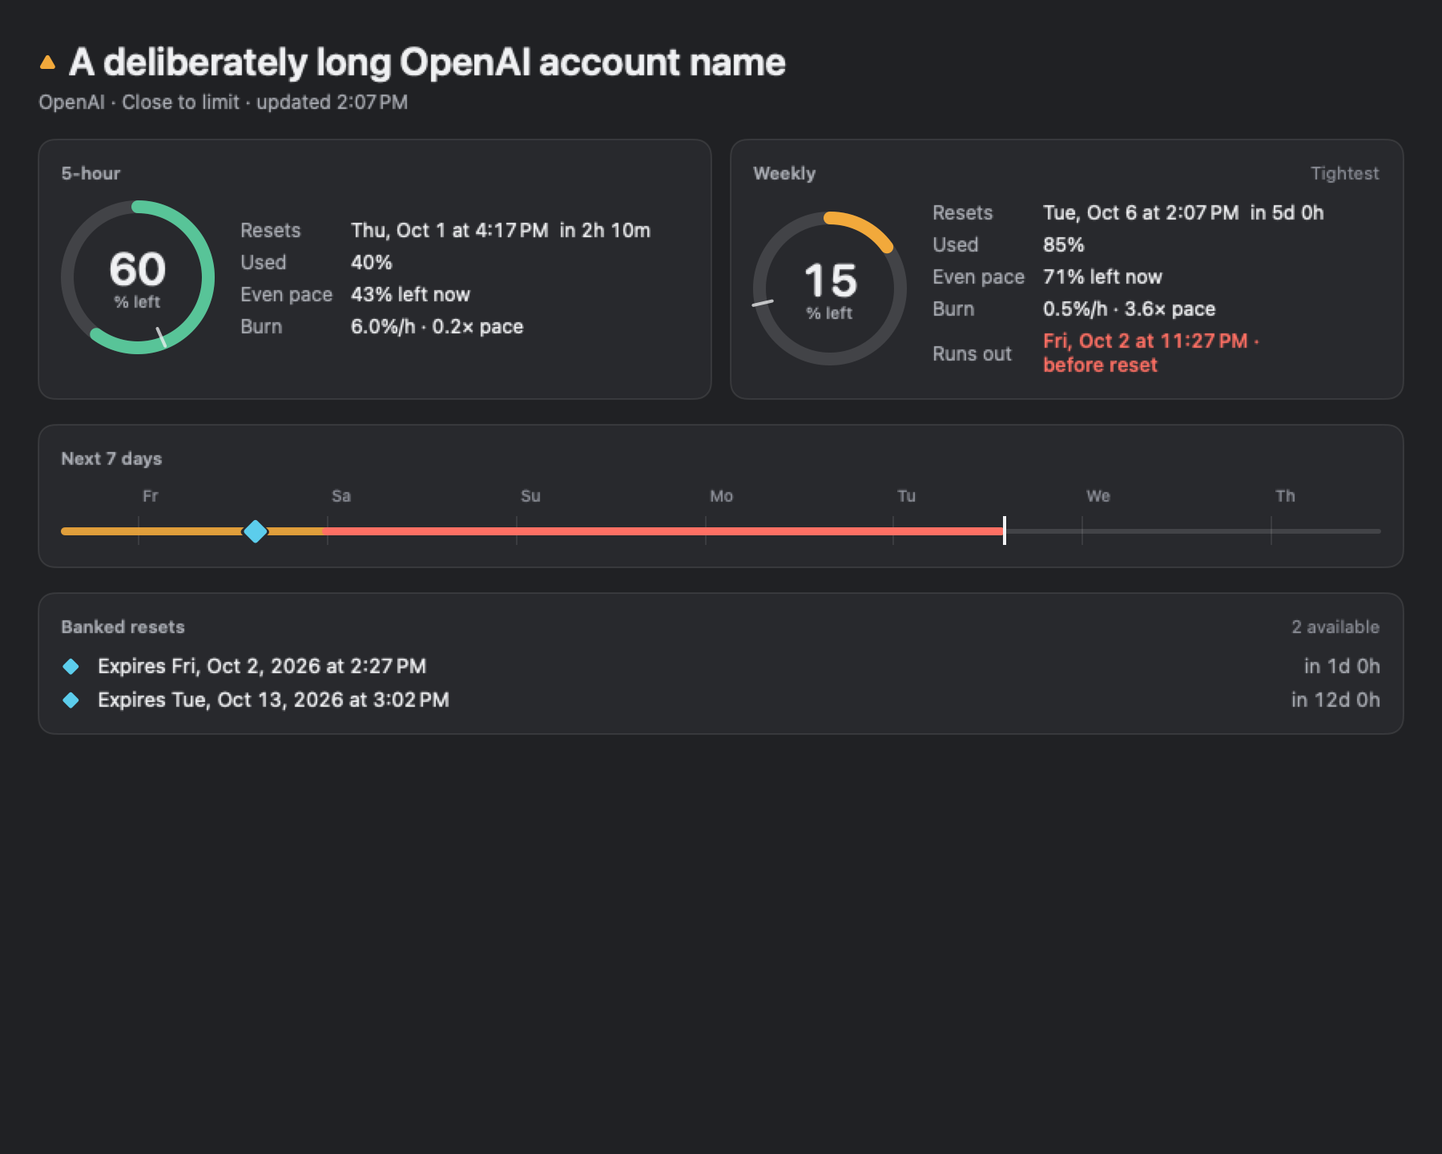
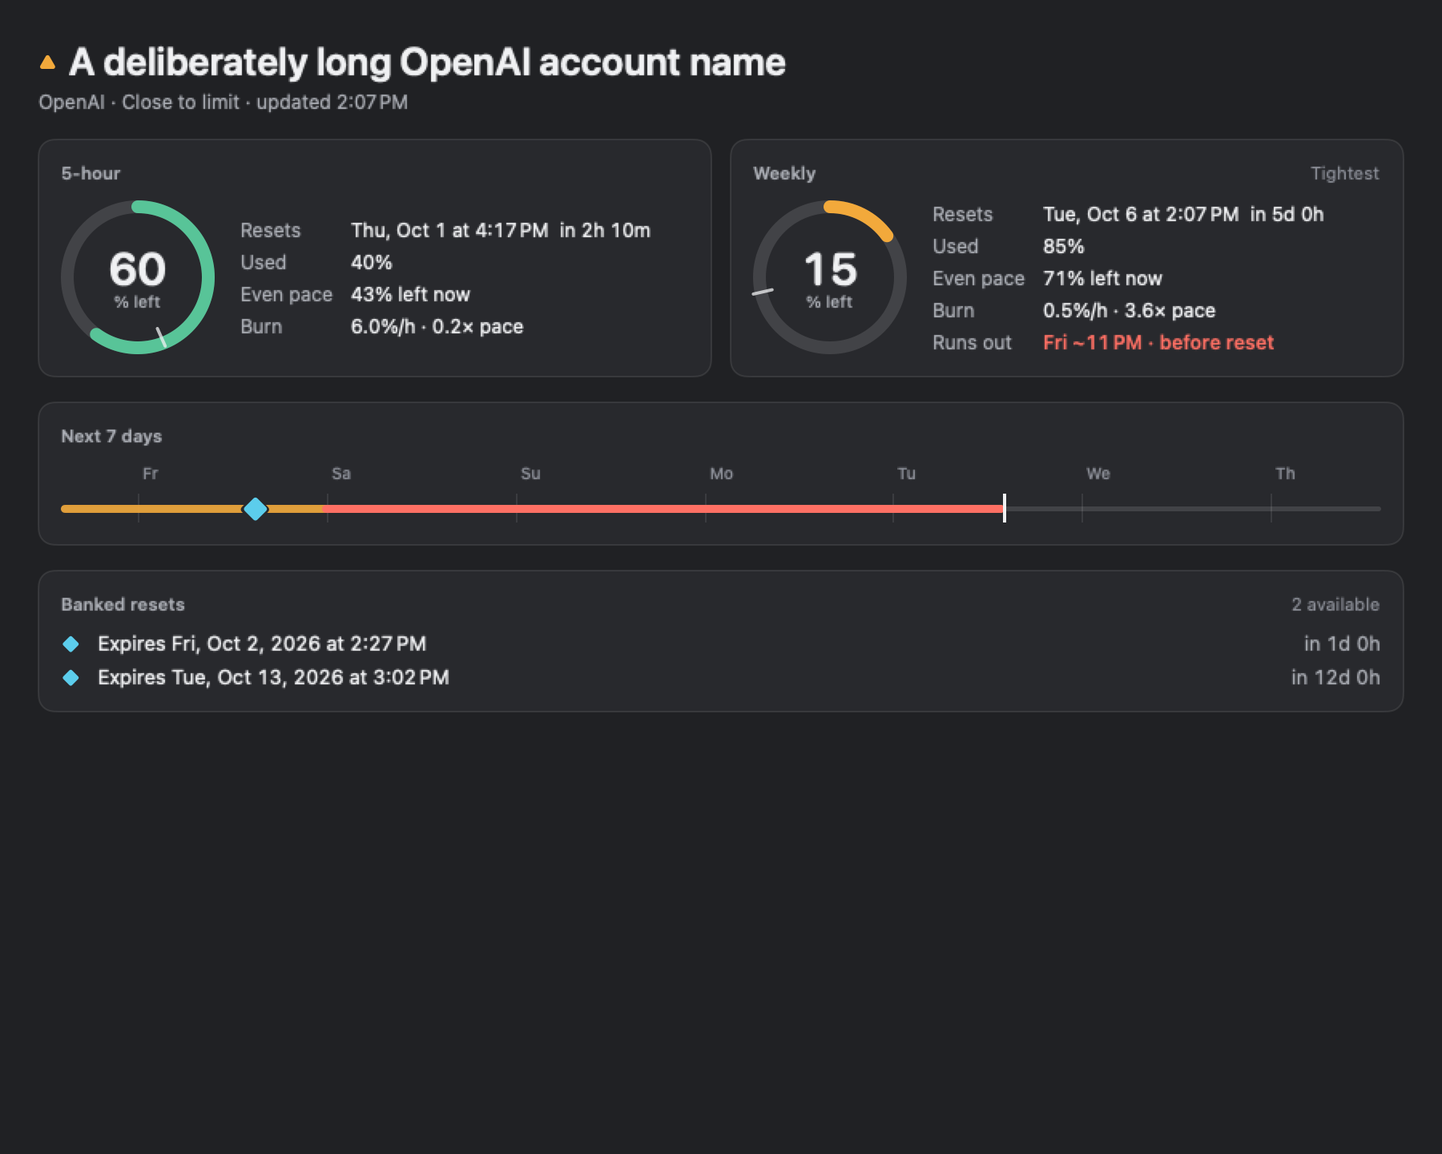
Keep pace honest on saved data and odd windows
Always show the limiting window, skip pace and run-out for saved data,
ignore the estimator's window-average fallback, stop guessing window
length from "session" or "day", give VoiceOver both windows and pace,
and count overflow accounts in widgets. Covered by AccountPaceTests.

diff --git a/Sources/ContextPanelSettingsUI/AccountDashboardViews.swift b/Sources/ContextPanelSettingsUI/AccountDashboardViews.swift
@@ -123,7 +123,8 @@ public struct AccountDashboardPanel: View {
                             Text(AccountPaceText.countdown(to: first.expiresAt, now: now))
                                 .font(.system(size: 11)).foregroundStyle(palette.secondary)
                         }
-                        Text(first.label).font(.system(size: 11)).foregroundStyle(palette.secondary).lineLimit(1)
+                        Text(first.label + (first.state == .available ? "" : " · last seen"))
+                            .font(.system(size: 11)).foregroundStyle(palette.secondary).lineLimit(1)
                         ForEach(overview.deadlines.dropFirst().prefix(2)) { deadline in
                             HStack(spacing: 6) {
                                 Text(AccountPaceText.when(deadline.expiresAt, now: now)).monospacedDigit()
@@ -202,8 +203,8 @@ public struct AccountDashboardPanel: View {
                 }
             }
             .frame(maxWidth: .infinity, alignment: .leading)
-            windowCell(account, window: account.windows.first { ($0.duration ?? 0) < 86_400 }).frame(width: Column.fiveHour)
-            windowCell(account, window: account.windows.first { ($0.duration ?? 0) >= 86_400 }).frame(width: Column.week)
+            windowCell(account, window: account.shortWindow).frame(width: Column.fiveHour)
+            windowCell(account, window: account.longWindow).frame(width: Column.week)
             paceCell(account).frame(width: Column.pace, alignment: .leading)
             DashboardWeekLane(account: account, deadlines: overview.deadlines.filter { $0.accountID == account.id },
                               now: now, palette: palette)
@@ -212,7 +213,7 @@ public struct AccountDashboardPanel: View {
         .padding(.horizontal, 14).padding(.vertical, 10)
         .contentShape(Rectangle())
         .accessibilityElement(children: .ignore)
-        .accessibilityLabel(account.accessibilityText)
+        .accessibilityLabel(account.glanceAccessibilityText(now: now, isNext: nextIDs.contains(account.id)))
     }
 
     private func windowCell(_ account: AccountOverview.Account, window: AccountOverview.Window?) -> some View {
@@ -341,12 +342,12 @@ public struct AccountDashboardDetail: View {
                     if let even = window.evenPaceRemaining(now: now) {
                         fact("Even pace", "\(Int((even * 100).rounded()))% left now")
                     }
-                    fact("Burn", window.burnFractionPerHour.map { String(format: "%.1f%%/h", $0 * 100) + " · "
+                    fact("Burn", !account.isReliable ? "not current" : window.burnFractionPerHour.map { String(format: "%.1f%%/h", $0 * 100) + " · "
                         + AccountPaceText.ratio(window.paceRatio(now: now)) + " pace" } ?? "measuring")
-                    if let runOut = window.projectedRunOut(now: now) {
+                    if account.isReliable, let runOut = window.projectedRunOut(now: now) {
                         GridRow {
                             Text("Runs out").foregroundStyle(palette.secondary)
-                            Text(ContextPanelDateFormatting.accountReset(runOut, compact: true) + " · before reset")
+                            Text(AccountPaceText.approximately(runOut, now: now) + " · before reset")
                                 .fontWeight(.semibold).foregroundStyle(palette.bad)
                         }
                     }
@@ -366,7 +367,8 @@ public struct AccountDashboardDetail: View {
 
     private var bankedCard: some View {
         let deadlines = overview.deadlines.filter { $0.accountID == account.id }
-        return DashboardCard(title: "Banked resets", trailing: account.bankedResets.map { "\($0.availableCount) available" },
+        return DashboardCard(title: "Banked resets", trailing: account.bankedResets.map {
+            "\($0.availableCount) \(account.bankedState == .available ? "available" : "last seen")" },
                              fillsHeight: false, palette: palette) {
             VStack(alignment: .leading, spacing: 6) {
                 if account.bankedResets == nil {
@@ -376,6 +378,10 @@ public struct AccountDashboardDetail: View {
                     HStack(spacing: 10) {
                         Image(systemName: "diamond.fill").font(.system(size: 9)).foregroundStyle(palette.banked)
                         Text("Expires " + ContextPanelDateFormatting.accountReset(deadline.expiresAt)).monospacedDigit()
+                        if deadline.state != .available {
+                            Text("last seen " + AccountPaceText.when(deadline.observedAt, now: now))
+                                .foregroundStyle(palette.stale)
+                        }
                         Spacer()
                         Text(AccountPaceText.countdown(to: deadline.expiresAt, now: now)).monospacedDigit()
                             .foregroundStyle(palette.secondary)
@@ -593,9 +599,9 @@ struct DashboardWeekLane: View {
         GeometryReader { proxy in
             let width = proxy.size.width
             let height = proxy.size.height
-            let weekly = account.windows.first { ($0.duration ?? 0) >= 86_400 }
-            let reset = weekly?.naturalResetAt
-            let runOut = weekly?.projectedRunOut(now: now)
+            let long = account.longWindow
+            let reset = long?.naturalResetAt
+            let runOut = account.isReliable ? long?.projectedRunOut(now: now) : nil
             ZStack(alignment: .leading) {
                 ForEach(0..<7, id: \.self) { day in
                     let start = Calendar.current.startOfDay(for: now).addingTimeInterval(Double(day + 1) * 86_400)

diff --git a/Sources/ContextPanelWidgetUI/AccountGlanceWidget.swift b/Sources/ContextPanelWidgetUI/AccountGlanceWidget.swift
@@ -57,6 +57,10 @@ struct AccountGlanceWidget: View {
         return VStack(alignment: .leading, spacing: 7) {
             HStack(alignment: .firstTextBaseline) {
                 Text("Accounts").font(.system(size: 11, weight: .semibold))
+                if overview.accounts.count > shown.count {
+                    Text("+\(overview.accounts.count - shown.count)").font(.system(size: 9, weight: .semibold))
+                        .foregroundStyle(palette.secondary)
+                }
                 Spacer(minLength: 0)
                 Text("% left").font(.system(size: 9, weight: .medium)).foregroundStyle(palette.tertiary)
             }
@@ -80,7 +84,7 @@ struct AccountGlanceWidget: View {
                             .truncationMode(.tail).foregroundStyle(palette.secondary)
                     }
                     .accessibilityElement(children: .ignore)
-                    .accessibilityLabel(account.accessibilityText)
+                    .accessibilityLabel(account.glanceAccessibilityText(now: now, isNext: nextIDs.contains(account.id)))
                 }
             }
             Spacer(minLength: 0)
@@ -122,7 +126,7 @@ struct AccountGlanceWidget: View {
             if showsBanked, let deadline = overview.nextDeadline { bankedLine(deadline, compact: true) }
         }
         .accessibilityElement(children: .ignore)
-        .accessibilityLabel(account.accessibilityText)
+        .accessibilityLabel(account.glanceAccessibilityText(now: now, isNext: nextIDs.contains(account.id)))
     }
 
     // MARK: Medium
@@ -131,7 +135,8 @@ struct AccountGlanceWidget: View {
         let showsDeadline = showsBanked && overview.nextDeadline != nil
         let rows = Array(overview.accounts.prefix(showsDeadline ? 6 : 7))
         return VStack(alignment: .leading, spacing: 0) {
-            columnHeader(title: "Accounts", trailing: "Next", compact: true)
+            columnHeader(title: overview.accounts.count > rows.count ? "Accounts +\(overview.accounts.count - rows.count)" : "Accounts",
+                         trailing: "Next", compact: true)
                 .padding(.bottom, 4)
             ForEach(rows) { account in
                 Link(destination: links.account(account.metadata.provider, id: account.id)) {
@@ -177,7 +182,7 @@ struct AccountGlanceWidget: View {
         .frame(height: 17)
         .contentShape(Rectangle())
         .accessibilityElement(children: .ignore)
-        .accessibilityLabel(account.accessibilityText)
+        .accessibilityLabel(account.glanceAccessibilityText(now: now, isNext: nextIDs.contains(account.id)))
         .accessibilityHint("Opens this account")
     }
 
@@ -217,6 +222,10 @@ struct AccountGlanceWidget: View {
         return VStack(alignment: .leading, spacing: 0) {
             HStack(alignment: .firstTextBaseline) {
                 Text("Accounts").font(.system(size: 12, weight: .semibold))
+                if overview.accounts.count > rows.count {
+                    Text("+\(overview.accounts.count - rows.count)").font(.system(size: 10, weight: .semibold))
+                        .foregroundStyle(palette.secondary)
+                }
                 Spacer()
                 Text("5h · Week · pace").font(.system(size: 8.5, weight: .semibold)).foregroundStyle(palette.tertiary)
             }
@@ -281,7 +290,7 @@ struct AccountGlanceWidget: View {
         .padding(.vertical, 4)
         .contentShape(Rectangle())
         .accessibilityElement(children: .ignore)
-        .accessibilityLabel(account.accessibilityText)
+        .accessibilityLabel(account.glanceAccessibilityText(now: now, isNext: nextIDs.contains(account.id)))
         .accessibilityHint("Opens this account")
     }
 
@@ -301,13 +310,9 @@ struct AccountGlanceWidget: View {
 
     // MARK: Shared
 
-    private func fiveHour(_ account: AccountOverview.Account) -> AccountOverview.Window? {
-        account.windows.first { ($0.duration ?? 0) < 86_400 }
-    }
+    private func fiveHour(_ account: AccountOverview.Account) -> AccountOverview.Window? { account.shortWindow }
 
-    private func weekly(_ account: AccountOverview.Account) -> AccountOverview.Window? {
-        account.windows.first { ($0.duration ?? 0) >= 86_400 } ?? account.windows.first { $0.duration == nil }
-    }
+    private func weekly(_ account: AccountOverview.Account) -> AccountOverview.Window? { account.longWindow }
 
     private func paceColor(_ account: AccountOverview.Account) -> Color {
         guard let ratio = account.paceRatio(now: now) else { return palette.tertiary }

diff --git a/Tests/ContextPanelCoreTests/AccountPaceTests.swift b/Tests/ContextPanelCoreTests/AccountPaceTests.swift
@@ -1,0 +1,67 @@
+import Foundation
+import Testing
+
+@testable import ContextPanelCore
+
+private let paceNow = Date(timeIntervalSince1970: 1_790_000_000)
+
+private func paceOverview(weeklyUsed: Int = 85, weeklyResetHours: Double = 120, sampleCount: Int = 24,
+                          unitsPerHour: Double = 0.45, label: String = "Weekly",
+                          observedAt: Date = paceNow) -> AccountOverview {
+    let weekly = UsageLimit(provider: .openAI, accountID: "a", accountName: "n", label: label, windowLabel: label,
+        unit: .percent, used: weeklyUsed, limit: 100, resetsAt: paceNow.addingTimeInterval(weeklyResetHours * 3_600),
+        lastUpdatedAt: observedAt, confidence: .observed)
+    let fiveHour = UsageLimit(provider: .openAI, accountID: "a", accountName: "n", label: "5-hour", windowLabel: "5-hour",
+        unit: .percent, used: 10, limit: 100, resetsAt: paceNow.addingTimeInterval(4 * 3_600),
+        lastUpdatedAt: observedAt, confidence: .observed)
+    let report = StoredProviderReport(provider: .openAI, accountID: "a", accountName: "n", generatedAt: observedAt,
+        resetCredits: nil, status: .healthy, errorMessage: nil)
+    return AccountOverview(snapshot: UsageSnapshot(generatedAt: observedAt, limits: [weekly, fiveHour]), reports: [report],
+        now: paceNow, accountBurnRates: ["a": [weekly.id: ObservedBurnRate(limitID: weekly.id, unitsPerHour: unitsPerHour,
+            observedDurationHours: 6, sampleCount: sampleCount)]])
+}
+
+@Test func evenPaceMarkIsRemainingTimeOverWindowLength() throws {
+    let account = try #require(paceOverview().accounts.first)
+    let weekly = try #require(account.longWindow)
+    #expect(abs((weekly.evenPaceRemaining(now: paceNow) ?? 0) - 120.0 / 168.0) < 0.0001)
+    #expect(account.shortWindow?.label == "5-hour")
+}
+
+@Test func runOutAppearsOnlyBeforeTheReset() throws {
+    let tight = try #require(paceOverview().accounts.first)
+    let runOut = try #require(tight.earliestRunOut(now: paceNow))
+    #expect(abs(runOut.date.timeIntervalSince(paceNow) - 15 / 0.45 * 3_600) < 1)
+    #expect(abs((tight.paceRatio(now: paceNow) ?? 0) - 0.45 / (15.0 / 120.0)) < 0.0001)
+
+    let slow = try #require(paceOverview(unitsPerHour: 0.1).accounts.first)
+    #expect(slow.earliestRunOut(now: paceNow) == nil)
+}
+
+@Test func windowAverageFallbackIsNotPresentedAsObservedBurn() throws {
+    let account = try #require(paceOverview(sampleCount: 0).accounts.first)
+    #expect(account.longWindow?.burnFractionPerHour == nil)
+    #expect(account.earliestRunOut(now: paceNow) == nil)
+}
+
+@Test func savedDataGetsNoPaceOrRunOut() throws {
+    let account = try #require(paceOverview(observedAt: paceNow.addingTimeInterval(-6 * 3_600)).accounts.first)
+    #expect(!account.isReliable)
+    #expect(account.paceRatio(now: paceNow) == nil)
+    #expect(account.earliestRunOut(now: paceNow) == nil)
+}
+
+@Test func unnamedWindowLengthGetsNoEvenPaceMark() throws {
+    let account = try #require(paceOverview(label: "Model capacity").accounts.first)
+    #expect(account.longWindow?.duration == nil)
+    #expect(account.longWindow?.evenPaceRemaining(now: paceNow) == nil)
+}
+
+@Test func shortLabelsKeepSiblingsDistinct() {
+    let metadata = ["Claude primary", "Claude backup", "work@example.invalid"].enumerated().map { index, label in
+        AccountDisplayMetadata(id: "id\(index)", configurationID: "id\(index)", provider: .anthropic, label: label)
+    }
+    let overview = AccountOverview(snapshot: UsageSnapshot(generatedAt: paceNow, limits: []), reports: [],
+        metadata: metadata, now: paceNow)
+    #expect(overview.shortLabels == ["id0": "primary", "id1": "backup", "id2": "work"])
+}

diff --git a/Sources/ContextPanelCore/AccountPace.swift b/Sources/ContextPanelCore/AccountPace.swift
@@ -3,12 +3,12 @@ import Foundation
 /// Pace for one account window: where the remaining share sits against an even spend
 /// across the window, and when the observed burn would run it out before the reset.
 public extension AccountOverview.Window {
-    /// Window length from its label; nil when the window has no fixed length.
+    /// Window length from its label; nil unless the label names a fixed length.
     var duration: TimeInterval? {
         let text = label.lowercased()
-        if text.contains("5-hour") || text.contains("5h") || text.contains("five") || text.contains("session") { return 5 * 3_600 }
-        if text.contains("week") || text.contains("7-day") || text.contains("1w") { return 7 * 86_400 }
-        if text.contains("daily") || text.contains("day") || text.contains("24") { return 86_400 }
+        if text.contains("5-hour") || text.contains("5 hour") || text == "5h" { return 5 * 3_600 }
+        if text.contains("weekly") || text.contains("7-day") || text == "week" { return 7 * 86_400 }
+        if text.contains("daily") || text.contains("24-hour") { return 86_400 }
         return nil
     }
 
@@ -50,17 +50,44 @@ public extension AccountOverview.Account {
         windows.sorted { ($0.duration ?? .infinity) < ($1.duration ?? .infinity) }
     }
 
-    /// The earliest run-out across windows, with the window that causes it.
+    /// The short column: a window under a day long.
+    var shortWindow: AccountOverview.Window? {
+        windows.filter { ($0.duration ?? .infinity) < 86_400 }.min { ($0.remainingFraction ?? 1) < ($1.remainingFraction ?? 1) }
+    }
+
+    /// The long column: the tightest of every other window, so the limiting one is never hidden.
+    var longWindow: AccountOverview.Window? {
+        windows.filter { $0.id != shortWindow?.id }.min { ($0.remainingFraction ?? 1) < ($1.remainingFraction ?? 1) }
+    }
+
+    /// The earliest run-out across windows, with the window that causes it. Saved data gets none.
     func earliestRunOut(now: Date) -> (window: AccountOverview.Window, date: Date)? {
         guard isReliable else { return nil }
         return windows.compactMap { window in window.projectedRunOut(now: now).map { (window, $0) } }
             .min { $0.1 < $1.1 }
     }
 
-    /// Fastest pace across this account's windows.
+    /// Fastest pace across this account's windows. Saved data gets none.
     func paceRatio(now: Date) -> Double? {
         guard isReliable else { return nil }
         return windows.compactMap { $0.paceRatio(now: now) }.max()
+    }
+
+    /// Spoken summary with every window, pace and run-out.
+    func glanceAccessibilityText(now: Date, isNext: Bool) -> String {
+        var parts = [accessibilityText]
+        for window in orderedWindows {
+            guard let fraction = window.remainingFraction else { continue }
+            var part = "\(window.label) \(Int((fraction * 100).rounded())) percent left"
+            if let reset = window.naturalResetAt { part += ", resets \(ContextPanelDateFormatting.accountReset(reset, compact: true))" }
+            parts.append(part)
+        }
+        if let ratio = paceRatio(now: now) { parts.append("pace \(AccountPaceText.ratio(ratio))") }
+        if let runOut = earliestRunOut(now: now) {
+            parts.append("at this pace \(runOut.window.label) runs out around \(AccountPaceText.approximately(runOut.date, now: now)), before its reset")
+        }
+        if isNext { parts.append("use next") }
+        return parts.joined(separator: ", ")
     }
 }
 

diff --git a/Sources/ContextPanelCore/AccountOverview.swift b/Sources/ContextPanelCore/AccountOverview.swift
@@ -139,8 +139,9 @@ public struct AccountOverview: Equatable, Sendable {
                        remainingFraction: limit.usageRatio.map { min(1, max(0, 1 - $0)) },
                        naturalResetAt: limit.resetsAt, observedAt: limit.lastUpdatedAt,
                        confidence: limit.confidence, assumption: limit.presentationAssumption,
+                       // sampleCount 0 is the estimator's window-average fallback, not observed history.
                        burnFractionPerHour: accountBurnRates[limit.accountID]?[limit.id].flatMap { rate in
-                           limit.limit.flatMap { $0 > 0 ? rate.unitsPerHour / Double($0) : nil }
+                           rate.sampleCount > 0 ? limit.limit.flatMap { $0 > 0 ? rate.unitsPerHour / Double($0) : nil } : nil
                        })
             }
             let observed = windows.compactMap(\.observedAt).min() ?? report?.generatedAt

diff --git a/docs/evidence/722-opus/README.md b/docs/evidence/722-opus/README.md
@@ -13,13 +13,15 @@ account row says at a glance:
 
 - **Both windows, not one number.** Every row shows the 5-hour and weekly
   windows side by side, each with its percent left, its reset time and a bar.
-  The tightest window's number is bold, so "which window is binding" needs no
-  extra label.
+  The second column holds the tightest of the account's longer windows, so the
+  binding window is never hidden; its number is bold.
 - **Pace without reading.** Each bar carries a thin tick where an even spend
   across the window would be now. A bar ending left of its tick is burning
-  ahead of plan. Where per-account burn history exists, a pace ratio
+  ahead of plan. Where this account has observed burn history, a pace ratio
   (`3.6×`) and a projected run-out time ("out Fri ~11 PM") appear, in red only
-  when the run-out comes before the reset. Projections are shown to the hour,
+  when the run-out comes before the reset. The estimator's window-average
+  fallback is not shown as burn, saved or stale data gets no pace or run-out,
+  and windows whose label names no fixed length get no even-pace tick. Projections are shown to the hour,
   with `~`, because they are estimates; resets and banked expiries stay to the
   minute.
 - **The week as a picture.** The Mac overview ends each row with a seven-day
@@ -29,14 +31,17 @@ account row says at a glance:
 - **Three answers on top, with numbers.** Tightest (ring, window, reset,
   run-out), Use next (one per provider, with its headroom), and Banked resets
   (next expiry with a countdown, then the following two).
-- **Widgets show every account.** Small is a 3×2 grid of rings (tightest
-  percent per account, a blue dot on the use-next account) with the next banked
-  expiry. Medium is a six-row table: 5h and week with bars, then the next
+- **Widgets show up to six accounts**, with a `+N` count beyond that. Small
+  is a 3×2 grid of rings (tightest percent per account, a blue dot on the
+  use-next account) with the next banked expiry; with one or two accounts it
+  shows the closest one large, with both windows. Medium is a six-row table: 5h and week with bars, then the next
   reset or a red run-out. Large gives each account two lines (name, banked
   count, run-out and pace; then both windows with their reset times) and lists
   the next three banked expiries.
-- **Colour means status only.** Bars are a calm green until 25% left (amber)
-  and 10% (red). Banked resets use cyan with a reset glyph, never purple. Every
+- **Colour means status only.** The row mark is the provider-reported
+  account status; bar and number colours are the window's own headroom: calm
+  green until 25% left (amber) and 10% (red). So an account can be Available
+  while one window is already amber. Banked resets use cyan with a reset glyph, never purple. Every
   text colour meets WCAG AA (4.5:1) on its surface in light and dark;
   status also has a shape (circle, triangle, octagon, clock).
 - **No slogans.** Labels are nouns and times. State words ("Available") are
@@ -52,9 +57,24 @@ account row says at a glance:
 | Burn pace ratio and projected run-out time | "dates incomplete" next to a row's banked count (this design shows it on account detail only) |
 | A seven-day lane of resets, run-outs and banked expiries | The full account name in the small widget (this design uses short names, e.g. "primary", "backup") |
 | Use-next headroom percent, and use-next marks in rows and widgets | A Deadlines explanatory line ("expiration does not use a reset") |
-| All six accounts in the small and medium widgets (#733: one and four) | |
+| Up to six accounts in the small and medium widgets, with a `+N` count (#733: one and four) | |
 | The next three banked expiries in the overview and large widget (#733: one) | |
 | Burn per hour, even-pace share and run-out on account detail | |
+
+## Review by another model
+
+OpenAI gpt-6.1-sol reviewed this rationale, the screenshots and the code
+read-only. Verdict: this direction better meets the stated goal; the overview
+reads dense rather than cluttered, and the medium widget is near its
+readability limit. Its data findings were fixed and covered by
+`Tests/ContextPanelCoreTests/AccountPaceTests.swift`: the limiting window is
+always visible; saved data shows no pace or run-out and banked dates say "last
+seen"; the window-average burn fallback is not shown as observed burn; window
+length is no longer guessed from "session" or "day"; detail shows run-out to
+the hour; VoiceOver reads both windows, pace, run-out and use-next; widgets
+show a `+N` overflow count. Not changed: 8–9 pt secondary text in the medium
+and large widgets (the density trade-off is the point of this comparison), and
+the row mark versus bar colour difference (explained above).
 
 ## Data
 
